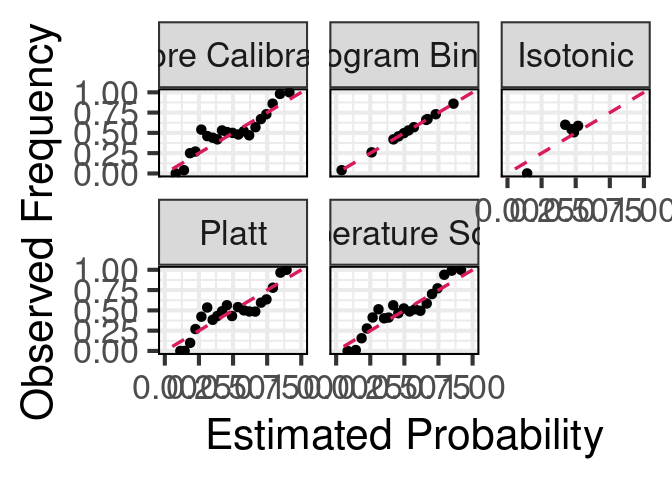
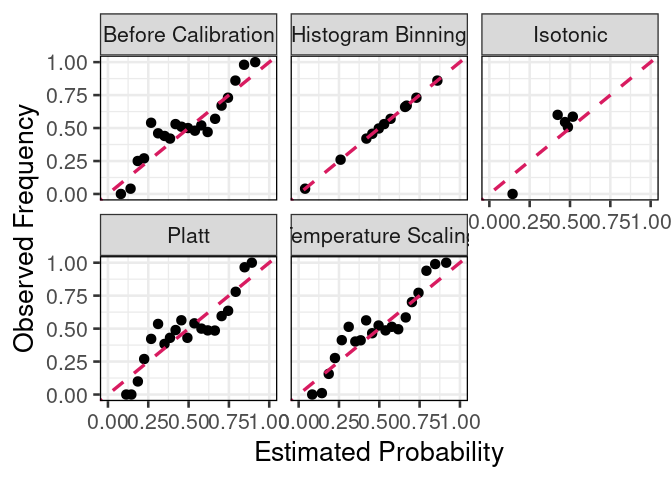
markdown

diff --git a/notebooks/linear_prediction_sets.md b/notebooks/linear_prediction_sets.md
@@ -1,0 +1,233 @@
+Conformal Prediction vs Linear Models
+================
+Rafael Izbicki
+
+## Conformal Prediction and Linear Models
+
+### Define Functions
+
+``` r
+library(ggplot2)
+library(dplyr)
+theme_set(theme_bw(base_size = 20))
+
+conformal <- function(fit,xCal,yCal,alpha=0.1) {
+  predictions <- predict(fit, xCal %>% as.data.frame())
+  residuals <- abs(predictions - (yCal %>% as.matrix()))
+  cutoff <- residuals[order(residuals)[ceiling((length(residuals)+1)*(1-alpha))]]
+  output <- list(cutoff = cutoff, fit = fit)
+  class(output) <- "conformal"
+  return(output)
+}
+
+predict.conformal <- function(fit, xNew) {
+  pred <- predict(fit$fit, xNew)
+  if ("pred" %in% names(pred)) {
+    pred = pred$pred 
+  }
+  lower <- pred - fit$cutoff
+  upper <- pred + fit$cutoff
+  return(list(pred = pred, lower = lower, upper = upper))
+}
+```
+
+### Generate Data Function
+
+``` r
+generate_data <- function(n, d, residual_type = "gaussian") {
+  x <- matrix(rnorm(n*d), n, d)
+  if (residual_type == "gaussian") {
+    y <- 2 * x[, 1] + rnorm(n, sd = 0.3)
+  } else if (residual_type == "t") {
+    y <- 2 * x[, 1] + rt(n, df = 2) * abs(x[, 1])/2
+  } else if (residual_type == "t_5") {
+    y <- sin(5*x[,2]) + rt(n, df = 2) * abs(x[, 1])/2
+  }
+  return(data.frame(x = x, y = y))
+}
+```
+
+### Simulation Setup
+
+``` r
+set.seed(0)
+num_iterations <- 10000
+seeds <- sample(1:num_iterations, num_iterations, replace = FALSE)
+
+summary_dfs <- list()
+```
+
+### Main Loop for Simulations
+
+``` r
+for (seed in seeds) {
+  set.seed(seed)
+  
+  n <- 300
+  ncal <- 100
+  d <- 150
+  
+  # Gaussian residuals data
+  x <- matrix(rnorm(n*d), n, d)
+  data_gaussian <- generate_data(n, d, residual_type = "gaussian")
+  
+  # t residuals data with df=2
+  x <- matrix(rnorm(n*d), n, d)
+  data_t <- generate_data(n, d, residual_type = "t")
+  
+  # t residuals data with df=5
+  x <- matrix(rnorm(n*d), n, d)
+  data_t_5 <- generate_data(n, d, residual_type = "t_5")
+  
+  # Test data
+  n_test <- 1
+  x <- matrix(rnorm(n_test*d), n_test, d)
+  data_test_gaussian <- generate_data(n_test, d, residual_type = "gaussian")
+  data_test_t <- generate_data(n_test, d, residual_type = "t")
+  data_test_t_5 <- generate_data(n_test, d, residual_type = "t_5")
+  
+  # Split the data into training and calibration sets
+  train_indices <- sample(seq_len(n), size = n - ncal)
+  train_data_gaussian <- data_gaussian[train_indices, ]
+  calibration_data_gaussian <- data_gaussian[-train_indices, ]
+  
+  train_data_t <- data_t[train_indices, ]
+  calibration_data_t <- data_t[-train_indices, ]
+  
+  train_data_t_5 <- data_t_5[train_indices, ]
+  calibration_data_t_5 <- data_t_5[-train_indices, ]
+  
+  # Linear model and predictions for all cases
+  fit_gaussian <- lm(y ~ ., data = train_data_gaussian)
+  fit_t <- lm(y ~ ., data = train_data_t)
+  fit_t_5 <- lm(y ~ ., data = train_data_t_5)
+  
+  # Gaussian residual predictions
+  pred_lm_exact_gaussian <- predict(fit_gaussian, data_test_gaussian, interval = "prediction", level = 0.9) %>% 
+    as.data.frame()
+  pred_lm_exact_gaussian$y <- data_test_gaussian$y
+  
+  fitted_lm_conformal_gaussian <- conformal(fit_gaussian, calibration_data_gaussian %>% select(-y), calibration_data_gaussian %>% select(y), alpha = 0.1)
+  pred_lm_conformal_gaussian <- predict(fitted_lm_conformal_gaussian, data_test_gaussian %>% select(-y)) %>% as.data.frame()
+  pred_lm_conformal_gaussian$y <- data_test_gaussian$y
+  
+  # t residual predictions
+  pred_lm_exact_t <- predict(fit_t, data_test_t, interval = "prediction", level = 0.9) %>% 
+    as.data.frame()
+  pred_lm_exact_t$y <- data_test_t$y
+  
+  fitted_lm_conformal_t <- conformal(fit_t, calibration_data_t %>% select(-y), calibration_data_t %>% select(y), alpha = 0.1)
+  pred_lm_conformal_t <- predict(fitted_lm_conformal_t, data_test_t %>% select(-y)) %>% as.data.frame()
+  pred_lm_conformal_t$y <- data_test_t$y
+  
+  # t (df=5) residual predictions
+  pred_lm_exact_t_5 <- predict(fit_t_5, data_test_t_5, interval = "prediction", level = 0.9) %>% 
+    as.data.frame()
+  pred_lm_exact_t_5$y <- data_test_t_5$y
+  
+  fitted_lm_conformal_t_5 <- conformal(fit_t_5, calibration_data_t_5 %>% select(-y), calibration_data_t_5 %>% select(y), alpha = 0.1)
+  pred_lm_conformal_t_5 <- predict(fitted_lm_conformal_t_5, data_test_t_5 %>% select(-y)) %>% as.data.frame()
+  pred_lm_conformal_t_5$y <- data_test_t_5$y
+  
+  # Combine predictions and add labels
+  pred_lm_exact_gaussian$residual_type <- "Gaussian residuals"
+  pred_lm_exact_gaussian$method <- "Linear Model"
+  pred_lm_conformal_gaussian$residual_type <- "Gaussian residuals"
+  pred_lm_conformal_gaussian$method <- "Conformal (calibration size = 100)"
+  
+  pred_lm_exact_t$residual_type <- "t residual (df=2)"
+  pred_lm_exact_t$method <- "Linear Model"
+  pred_lm_conformal_t$residual_type <- "t residual (df=2)"
+  pred_lm_conformal_t$method <- "Conformal (calibration size = 100)"
+  
+  pred_lm_exact_t_5$residual_type <- "t residual (df=5)"
+  pred_lm_exact_t_5$method <- "Linear Model"
+  pred_lm_conformal_t_5$residual_type <- "t residual (df=5)"
+  pred_lm_conformal_t_5$method <- "Conformal (calibration size = 100)"
+  
+  # Ensure the column names of all data frames are consistent
+  colnames(pred_lm_exact_gaussian) <- colnames(pred_lm_conformal_gaussian) <- 
+    c("fit", "lower", "upper", "y", "residual_type", "method")
+  
+  colnames(pred_lm_exact_t) <- colnames(pred_lm_conformal_t) <- 
+    c("fit", "lower", "upper", "y", "residual_type", "method")
+  
+  colnames(pred_lm_exact_t_5) <- colnames(pred_lm_conformal_t_5) <- 
+    c("fit", "lower", "upper", "y", "residual_type", "method")
+  
+  # Combine the Gaussian, t (df=2), and t (df=5) residual data frames
+  combined_df_gaussian <- rbind(pred_lm_exact_gaussian, pred_lm_conformal_gaussian)
+  combined_df_t <- rbind(pred_lm_exact_t, pred_lm_conformal_t)
+  combined_df_t_5 <- rbind(pred_lm_exact_t_5, pred_lm_conformal_t_5)
+  
+  # Combine all data
+  combined_df <- rbind(combined_df_gaussian, combined_df_t, combined_df_t_5)
+  
+  combined_df$method <- factor(combined_df$method, 
+                               levels = c("Linear Model", 
+                                          "Conformal (calibration size = 100)"))
+  
+  summary <- combined_df %>% 
+    group_by(method, residual_type) %>% 
+    summarise(coverage = mean(lower < y & upper > y), size = mean(upper - lower))
+  
+  # Add the combined_df object to the list
+  summary_dfs[[paste0("iteration_", seed)]] <- summary
+}
+
+
+combined_df <- bind_rows(summary_dfs, .id = "iteration")
+```
+
+### Summarize Results
+
+``` r
+df <- combined_df %>% 
+  group_by(method, residual_type) %>% 
+  summarise(coverage_mean = mean(coverage),
+            coverage_se = sqrt(var(coverage) / length(seeds)),
+            size_mean = mean(size),
+            size_se = sqrt(var(size) / length(seeds)))
+```
+
+### Coverage Plot
+
+``` r
+ggplot(df, aes(x = residual_type, y = coverage_mean, color = method)) +
+  geom_point(position = position_dodge(width = 0.5), size = 4) +
+  geom_errorbar(aes(ymin = coverage_mean - 2 * coverage_se, ymax = coverage_mean + 2 * coverage_se),
+                position = position_dodge(0.5), width = 0.2, linewidth = 1.4) +
+  labs(x = "", y = "Marginal Coverage") +
+  theme(legend.position = "none",
+        axis.text.x = element_text(angle = 45, hjust = 1),
+        legend.title = element_blank()) +
+  geom_hline(yintercept = 0.90, linetype = "dashed", color = "red") +
+  scale_color_manual(values = c("#D81B60", "#1E88E5"),
+                     labels = c("Linear Model Interval",
+                                "Conformal \n(calibration size: 100)")) +
+  scale_x_discrete(labels = c("Gaussian residuals" = "Linear \nHomoskedastic", 
+                              "t residual (df=2)" = "Linear \nHeteroskedastic", 
+                              "t residual (df=5)" = "Non-Linear \nHeteroskedastic"))
+```
+
+![](linear_prediction_sets_files/figure-gfm/unnamed-chunk-6-1.png)<!-- -->
+
+### Size Plot
+
+``` r
+ggplot(df, aes(x = residual_type, y = size_mean, color = method)) +
+  geom_point(position = position_dodge(width = 0.5), size = 4) +
+  geom_errorbar(aes(ymin = size_mean - 2 * size_se, ymax = size_mean + 2 * size_se),
+                position = position_dodge(0.5), width = 0.2, linewidth = 1.2) +
+  labs(x = "", y = "Average Size") +
+  theme(axis.text.x = element_text(angle = 45, hjust = 1),
+        legend.title = element_blank(), legend.position = "none") +
+  scale_color_manual(values = c("#D81B60", "#1E88E5"),
+                     labels = c("Linear Model Interval",
+                                "Conformal \n(calibration size: 100)")) +
+  scale_x_discrete(labels = c("Gaussian residuals" = "Linear \nHomoskedastic", 
+                              "t residual (df=2)" = "Linear \nHeteroskedastic", 
+                              "t residual (df=5)" = "Non-Linear \nHeteroskedastic"))
+```
+
+![](linear_prediction_sets_files/figure-gfm/unnamed-chunk-7-1.png)<!-- -->

diff --git a/notebooks/Calibration_Classification_Notebook.md b/notebooks/Calibration_Classification_Notebook.md
@@ -43,7 +43,7 @@ library(scales)
 library(isotone)
 library(tidyr)
 
-theme_set(theme_bw(base_size = 32))
+theme_set(theme_bw(base_size = 20))
 ```
 
 ## Generating Synthetic Data
